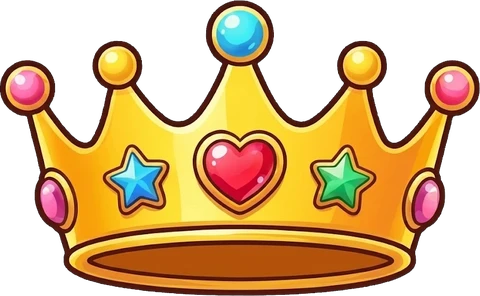
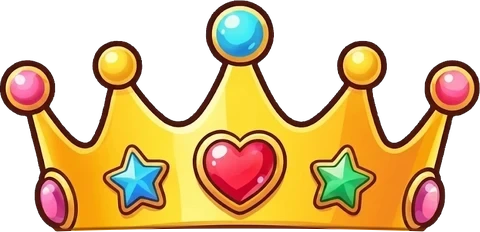
Bản thử vương miện: bỏ hẳn vành, ngồi sát đỉnh đầu (chờ xác nhận trước khi đưa lên mạng)
Claude-Session: https://claude.ai/code/session_014NvTU2FGoSxuqwznEUZ16q

diff --git a/assets/stage3d.js b/assets/stage3d.js
@@ -179,7 +179,7 @@ var W20Stage3D = (function () {
       var waist = new T.Mesh(new T.TorusGeometry(.13, .022, 8, 24), bm2); waist.rotation.x = Math.PI / 2; waist.position.y = -.08; torso.add(waist);
       var A1 = limb(.08, .4, SKIN), A2 = limb(.08, .4, SKIN); A1.position.set(-.2, .26, 0); A2.position.set(.2, .26, 0); torso.add(A1, A2);
       var head = faceSprite(tex(img, fb), 1.3); head.userData.base = .3; torso.add(head);
-      var crown = new T.Group(), CW = [296 / 480, 291 / 480][ci || 0]; /* 2 kiểu vương miện bằng ảnh (assets/crowns/c1, c2): mỗi chị đội một kiểu */
+      var crown = new T.Group(), CW = [232 / 480, 228 / 480][ci || 0]; /* 2 kiểu vương miện bằng ảnh (assets/crowns/c1, c2): mỗi chị đội một kiểu */
       var cs0 = new T.Sprite(new T.SpriteMaterial({ map: tex("assets/crowns/c" + ((ci || 0) + 1) + ".webp"), transparent: true, depthTest: false, depthWrite: false })); cs0.scale.set(1.12, 1.12 * CW, 1); cs0.renderOrder = 3; crown.add(cs0);
       torso.add(crown);
       root.userData = { body: body, torso: torso, L: [L1, L2], A: [A1, A2], head: head, crown: crown }; return root;
@@ -368,7 +368,7 @@ var W20Stage3D = (function () {
       g.updateMatrixWorld(true); var gh = handPos(gu.A[1]);
       it.gift.scale.setScalar(cs * 1.15); it.gift.position.copy(gh); it.gift.position.y += -.3 * cs; it.gift.position.z += .25 * cs; it.gift.rotation.y = .35;
       var gd = it.gift.userData; if (gd) { gd.lid.rotation.z = -1.5; gd.lid.position.y = .2; gd.glow.material.opacity = .55; gd.glow.scale.setScalar(.8); }
-      fitFace(gu.head); var hh = gu.head.scale.y; gu.crown.position.y = gu.head.position.y + hh / 2 + .08; gu.crown.position.z = 0;
+      fitFace(gu.head); var hh = gu.head.scale.y; gu.crown.position.y = gu.head.position.y + hh / 2 + .03; gu.crown.position.z = 0;
       if (it.lbl) { var v = new T.Vector3(g.position.x, 0, g.position.z).project(CAM); it.lbl.style.left = (v.x + 1) / 2 * 100 + "%"; it.lbl.style.top = ((1 - v.y) / 2 * 100 + .6) + "%"; }
     }
     function animPair(it, t, now) {
@@ -437,7 +437,7 @@ var W20Stage3D = (function () {
       it.gift.position.copy(gp); it.gift.scale.setScalar(cs * 1.15); it.gift.position.y += (holdGirl ? -.3 : .1) * cs; if (holdGirl) it.gift.position.z += .25 * cs; it.gift.rotation.y = after ? .35 : now / 1200;
       var gd = it.gift.userData; if (gd) { var op = after ? ease((tt - 200) / 700) : 0; gd.lid.rotation.z = -op * 1.5; gd.lid.position.y = .15 + op * .05; gd.glow.material.opacity = op * (.75 + Math.sin(now / 160) * .15); gd.glow.scale.setScalar(.01 + op * .85); }
       fitFace(mu.head); fitFace(gu.head);
-      var hh = gu.head.scale.y; gu.crown.position.y = gu.head.position.y + hh / 2 + .08; gu.crown.position.z = 0; gu.crown.renderOrder = 2; gu.crown.traverse(function (o) { if (o.material) { o.material.depthTest = false; o.renderOrder = 3; } });
+      var hh = gu.head.scale.y; gu.crown.position.y = gu.head.position.y + hh / 2 + .03; gu.crown.position.z = 0; gu.crown.renderOrder = 2; gu.crown.traverse(function (o) { if (o.material) { o.material.depthTest = false; o.renderOrder = 3; } });
     }
 
     /* ---------- vòng lặp ---------- */

diff --git a/admin.html b/admin.html
@@ -213,7 +213,7 @@ code{background:rgba(0,0,0,.25);border-radius:6px;padding:1px 6px;font-size:.92e
 <script src="assets/modules.js?v=20261090"></script>
 <script src="assets/stage.js?v=23"></script>
 <script src="assets/three.min.js?v=128"></script>
-<script src="assets/stage3d.js?v=68"></script>
+<script src="assets/stage3d.js?v=72"></script>
 <script>
 (function () {
   var $ = function (s) { return document.querySelector(s); };
